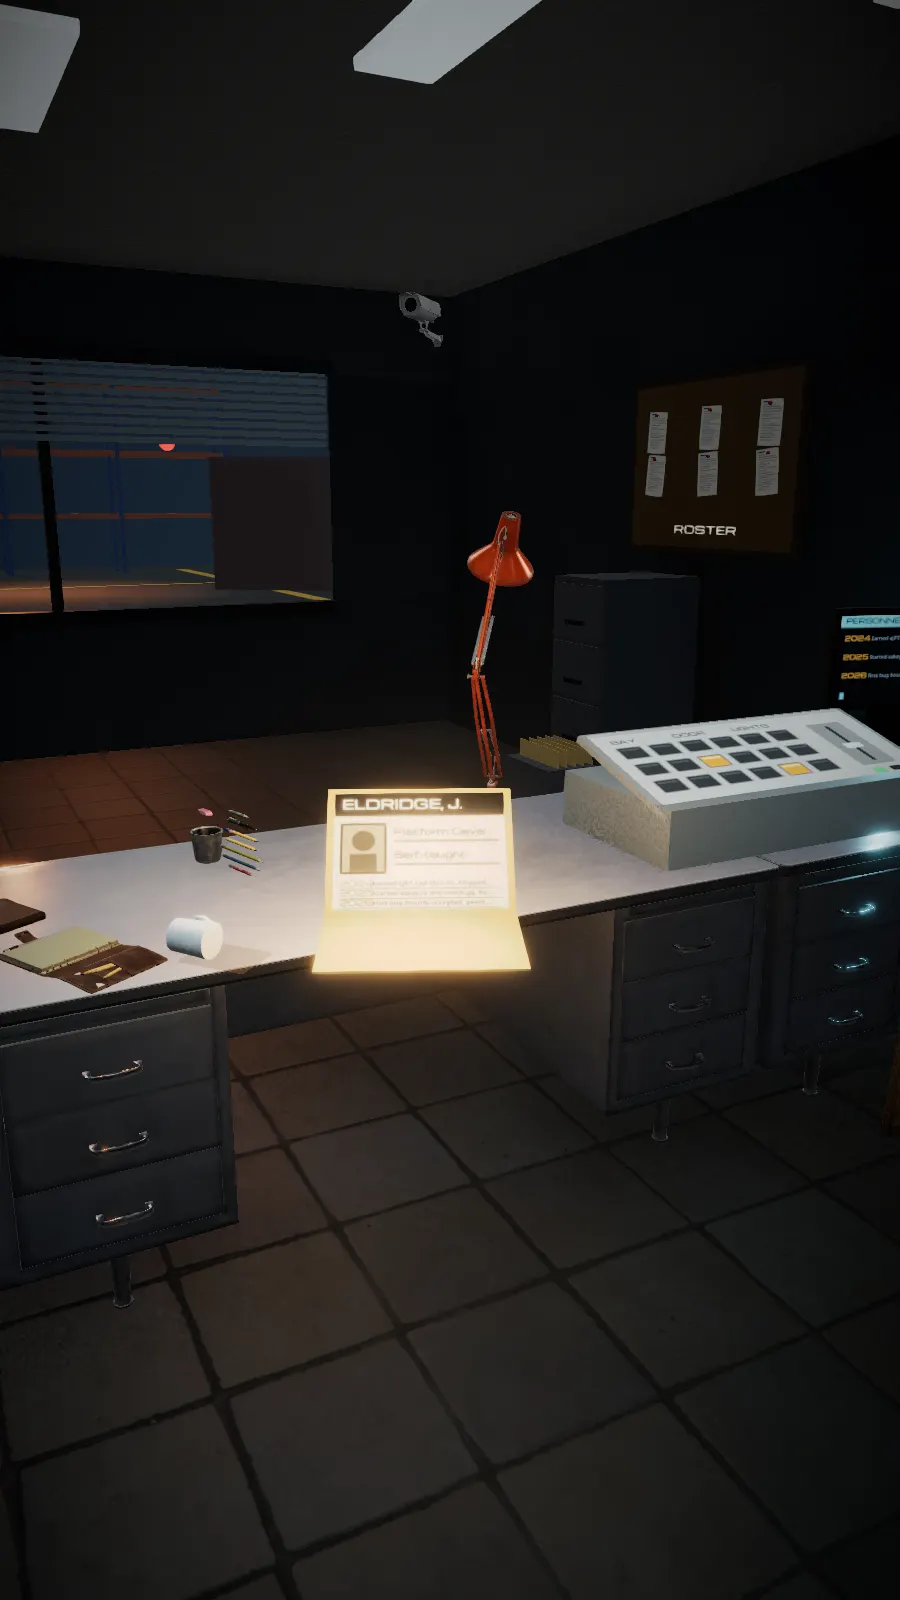
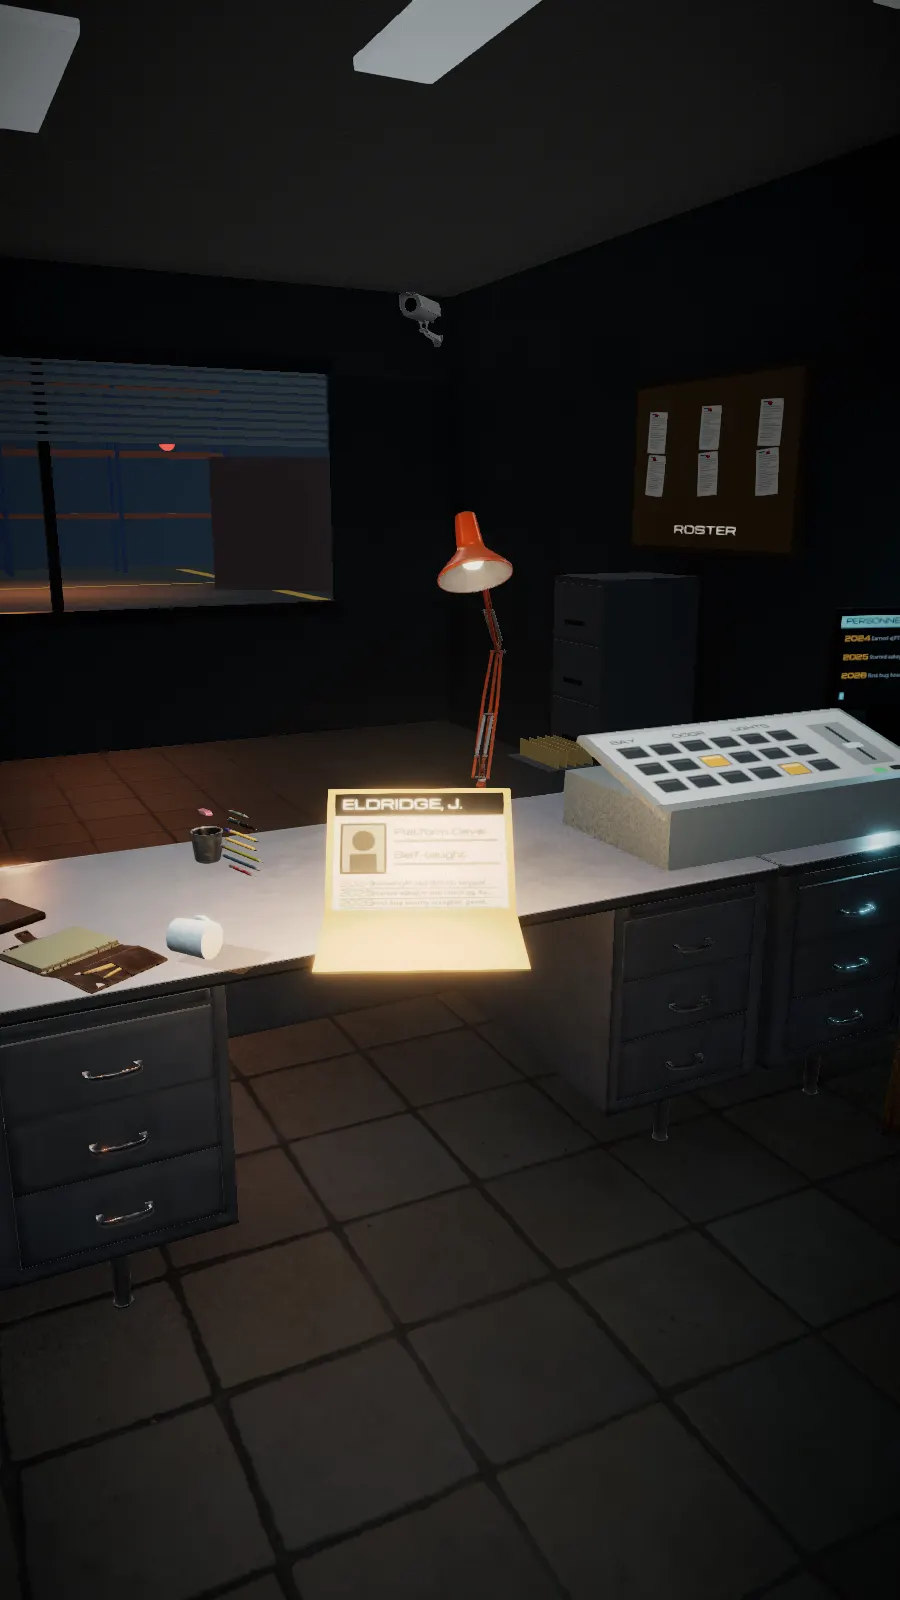
Switch room lighting at the doorway, and five small fixes from the walk
The light rig switched rooms on the nearest stop, halfway between holds, so a room's lights dropped
while the camera was still ten metres inside it. Each stop now carries the t at which the camera
crosses into its room, and the rig switches on that.

The arcade row stands 1.2 m clear of the drinks machines: butted together they read as one row of
six where four answered the pointer and two did not, and the lit header hid the last marquee. The
loose things in the server hall are where someone left them for a reason, the chair at the desk,
the boxes at the cage gate, the ladder at the panels. The file lamp looks over the folder instead
of at the window. The tape at the break room's two doors ties to stanchions rather than falling to
the floor.

Changed region(s): [[0.4667, 0.3125, 0.5911, 0.5]]

diff --git a/src/scenes/walk/path.ts b/src/scenes/walk/path.ts
@@ -2,7 +2,11 @@ import { CatmullRomCurve3, Matrix4, Quaternion, Vector3 } from 'three';
 import type { Wing } from '../../content/schema';
 
 export type StopId = 'booth' | 'fabrication' | 'recreation' | 'operations' | 'credentials' | 'containment' | 'file';
-export interface Stop { id: StopId; t: number; hold: [number, number]; lookAt: [number, number, number]; wing?: Wing; light: string }
+/** `enter` is the t at which the camera crosses into the stop's room (the doorway, or the hold's
+ *  start where the camera holds on the threshold looking in). The light rig switches rooms on it.
+ *  Switching on the nearest stop, halfway between holds, dropped a room's lights while the camera
+ *  was still ten metres inside it. */
+export interface Stop { id: StopId; t: number; enter: number; hold: [number, number]; lookAt: [number, number, number]; wing?: Wing; light: string }
 
 export const EYE = 1.7;
 
@@ -17,24 +21,24 @@ export const STOPS: Stop[] = [
   // The booth looks down the hall through the door it is about to walk through. Its target sits
   // well past the door on the same sightline, so the camera is never turning toward a point it is
   // standing on while it pulls away from the hold.
-  { id: 'booth', t: 0.0, hold: [0.0, 0.09], lookAt: [0, 3.2, 8], light: '#6EC1D6' },
+  { id: 'booth', t: 0.0, enter: 0.0, hold: [0.0, 0.09], lookAt: [0, 3.2, 8], light: '#6EC1D6' },
   // The fabrication hold is inside the dispatch office. The camera turns west to the three exhibits
   // along its glass.
-  { id: 'fabrication', t: 0.2, hold: [0.17, 0.25], lookAt: [-7, 1.5, -11], wing: 'fabrication', light: '#E0813A' },
-  { id: 'recreation', t: 0.4, hold: [0.37, 0.44], lookAt: [-33.7, 1.5, -35], wing: 'recreation', light: '#3D7BE0' },
-  { id: 'operations', t: 0.56, hold: [0.53, 0.6], lookAt: [-72, 1.6, -33], wing: 'operations', light: '#CFE6EE' },
+  { id: 'fabrication', t: 0.2, enter: 0.105, hold: [0.17, 0.25], lookAt: [-7, 1.5, -11], wing: 'fabrication', light: '#E0813A' },
+  { id: 'recreation', t: 0.4, enter: 0.332, hold: [0.37, 0.44], lookAt: [-33.7, 1.5, -35], wing: 'recreation', light: '#3D7BE0' },
+  { id: 'operations', t: 0.56, enter: 0.52, hold: [0.53, 0.6], lookAt: [-72, 1.6, -33], wing: 'operations', light: '#CFE6EE' },
   // The credentials hold stands inside the glass lab and looks north up it, so the three plates on
   // each side of the aisle are both in frame. Looking west put one wall in shot and the other three
   // plates behind the camera, which is what Jordan saw. The aim sits a little east of the hold's
   // own x: the spline parks at -79.83 and the lab runs on -79, so a straight north aim leans the
   // frame toward the west row and crowds the east one against the edge.
-  { id: 'credentials', t: 0.7, hold: [0.67, 0.74], lookAt: [-79.2, 1.75, -12], light: '#D9E8EE' },
+  { id: 'credentials', t: 0.7, enter: 0.643, hold: [0.67, 0.74], lookAt: [-79.2, 1.75, -12], light: '#D9E8EE' },
   // The containment hold stands short of the room, in the credentials hall, and looks north
   // through the CONTAINMENT doorway. The aim is the table halfway up the aisle rather than the
   // far wall: the lamp over the redacted page is what the room is about, and aiming past it put
   // the one warm thing in a cold room down at the bottom edge of the frame.
-  { id: 'containment', t: 0.84, hold: [0.81, 0.88], lookAt: [-80.6, 1.3, 12], wing: 'containment', light: '#D7383A' },
-  { id: 'file', t: 1.0, hold: [0.96, 1.0], lookAt: [-68, 1.1, 31], light: '#D9E8EE' },
+  { id: 'containment', t: 0.84, enter: 0.81, hold: [0.81, 0.88], lookAt: [-80.6, 1.3, 12], wing: 'containment', light: '#D7383A' },
+  { id: 'file', t: 1.0, enter: 0.936, hold: [0.96, 1.0], lookAt: [-68, 1.1, 31], light: '#D9E8EE' },
 ];
 
 // The shutter starts rolling on the first pixel of scroll and finishes at 0.075, while the camera
@@ -169,4 +173,11 @@ export function cameraAt(t: number, out = { position: new Vector3(), target: new
   _qAhead.slerp(lookQuat(stop), weight);
   out.target.copy(FORWARD).applyQuaternion(_qAhead).add(out.position);
   return out;
+}
+
+/** The room the camera is physically in: the last stop whose `enter` it has passed. */
+export function roomAt(t: number): Stop {
+  let room = STOPS[0];
+  for (const s of STOPS) if (t >= s.enter) room = s;
+  return room;
 }

diff --git a/src/scenes/walk/stages/recreation/shell.ts b/src/scenes/walk/stages/recreation/shell.ts
@@ -3,7 +3,7 @@ import type { StageContext } from '../types';
 import { prepareAO } from '../../materials';
 import { merged } from '../../merge';
 import { labFloor, labWall, dadoBands, dadoMaterial, dadoLineMaterial, ceilingGrid, nearestLitPanel } from '../../labs/materials';
-import { doorway, tapeStrip } from '../../labs/signage';
+import { doorway, tapeStrip, stanchion } from '../../labs/signage';
 import { X1, Z0, Z1, H, W, D, XC, ZC, ROOM, ROOM_W, ROOM_XC, TILE, LIT, PANEL, LANDING, BAY_DOOR, HALL_DOOR, HALL_FACE, HALL_HEAD } from './layout';
 
 export interface Shell { planes: Set<THREE.Object3D>; flicker: THREE.InstancedMesh[] }
@@ -70,7 +70,11 @@ export function buildShell({ store }: StageContext, root: THREE.Group): Shell {
   wall(Z1 - LANDING.z1, H, X1, H / 2, (LANDING.z1 + Z1) / 2, -Math.PI / 2);
   // One tape, hanging off the doorway's south post and trailing to the floor: somebody ducked under
   // it. It stops well short of the walked line, so it never runs through the camera or a wall.
-  root.add(tapeStrip([BAY_DOOR.x, 1.25, BAY_DOOR.z - BAY_DOOR.w / 2 + 0.05], [BAY_DOOR.x + 2.0, 0.06, BAY_DOOR.z - BAY_DOOR.w / 2 + 0.8], 0.06));
+  // Tied from the jamb to a stanchion two metres along. It used to run from the jamb to the floor
+  // with nothing at the floor end, a tape that had fallen and been left, and Jordan's note on the
+  // entry was that it felt weird.
+  const postA = stanchion(); postA.position.set(BAY_DOOR.x + 2.0, 0, BAY_DOOR.z - BAY_DOOR.w / 2 + 0.8); root.add(postA);
+  root.add(tapeStrip([BAY_DOOR.x, 1.05, BAY_DOOR.z - BAY_DOOR.w / 2 + 0.05], [BAY_DOOR.x + 2.0, 0.95, BAY_DOOR.z - BAY_DOOR.w / 2 + 0.8], 0.06));
 
   // ---- The west end: the doorway into the server hall -------------------------------------------
   // Its far mouth is the hall's own east wall plane (X0), which the hall closes around, and its near
@@ -96,7 +100,8 @@ export function buildShell({ store }: StageContext, root: THREE.Group): Shell {
   if (sign) sign.position.y = HALL_HEAD + 0.35;
   // The tape that used to hang across this end ran down the walked line and the camera drove through
   // its lettering. This one hangs off the south flank beside the doorway, clear of the line.
-  root.add(tapeStrip([hallFace, 1.3, flankZ0 - 0.1], [hallFace + 1.9, 0.06, flankZ0 - 1.1], 0.06));
+  const postB = stanchion(); postB.position.set(hallFace + 1.9, 0, flankZ0 - 1.1); root.add(postB);
+  root.add(tapeStrip([hallFace, 1.1, flankZ0 - 0.1], [hallFace + 1.9, 0.95, flankZ0 - 1.1], 0.06));
 
   root.add(merged(dado, dadoMaterial()), merged(lines, dadoLineMaterial()));
   return { planes, flicker: room.flicker };

diff --git a/tests/unit/path.test.ts b/tests/unit/path.test.ts
@@ -1,6 +1,6 @@
 import { describe, it, expect } from 'vitest';
 import { Vector3 } from 'three';
-import { STOPS, cameraAt, stopAt, tForStop, doorOpenAmount, DOOR_RANGE, holdWeight, localProgress, lookWeight, travelParam, EYE, TURN_LEAD } from '../../src/scenes/walk/path';
+import { STOPS, cameraAt, stopAt, roomAt, tForStop, doorOpenAmount, DOOR_RANGE, holdWeight, localProgress, lookWeight, travelParam, EYE, TURN_LEAD } from '../../src/scenes/walk/path';
 
 describe('stops', () => {
   it('are seven, in increasing t, from 0 to 1', () => {
@@ -66,6 +66,25 @@ describe('camera', () => {
       const target1 = cameraAt(t1).target;
       expect(target0.distanceTo(target1)).toBeLessThan(1.5);
     }
+  });
+});
+
+describe('rooms', () => {
+  it('enters each room after the previous hold and before its own, in order', () => {
+    for (let i = 1; i < STOPS.length; i++) {
+      expect(STOPS[i].enter).toBeGreaterThan(STOPS[i - 1].hold[1]);
+      expect(STOPS[i].enter).toBeLessThanOrEqual(STOPS[i].hold[0]);
+    }
+  });
+  it('crosses into operations at its doorway, not halfway down the break room', () => {
+    // The break room runs from x -20 to the hall door at x -57.2. The nearest-stop rule flipped at
+    // about x -45.
+    const at = cameraAt(STOPS.find((s) => s.id === 'operations')!.enter).position;
+    expect(at.x).toBeLessThan(-56); expect(at.x).toBeGreaterThan(-59);
+    expect(roomAt(0.48).id).toBe('recreation');
+    expect(roomAt(0.53).id).toBe('operations');
+    expect(roomAt(0.63).id).toBe('operations');
+    expect(roomAt(0.65).id).toBe('credentials');
   });
 });
 

diff --git a/src/scenes/walk/stages/operations/dressing.ts b/src/scenes/walk/stages/operations/dressing.ts
@@ -107,9 +107,12 @@ export async function buildDressing(ctx: StageContext, root: THREE.Group): Promi
   await add(place(wallScreen(1.6, 0.9, ['RACK STATUS', 'row A  ok', 'row B  degraded'], '#CFE6EE'), X0 + 0.1, 2.4, -33.5, Math.PI / 2));
 
   // ---- The aisle ------------------------------------------------------------------------------
-  await add(once(prop('office_chair'), -66, 0, -32.5, 1.1));
-  await add(boxes([[-69, 0.2, -33.6, 0.3], [-68.62, 0.6, -33.74, -0.45]]));
-  await add(place(stepladder(), -73.5, 0, -34.6, 0.5));
+  // Each loose thing is somewhere a person left it for a reason: the chair pushed back from the
+  // desk, the boxes dropped at the cage gate waiting to go in, the ladder up at the wall panels.
+  // Spread down the aisle they read as scatter, and Jordan's note was "model position feels random".
+  await add(once(prop('office_chair'), X0 + 2.2, 0, -31.7, -Math.PI / 2 + 0.3));
+  await add(boxes([[GATE_X + 0.9, 0.2, -33.5, 0.3], [GATE_X + 1.28, 0.6, -33.64, -0.45]]));
+  await add(place(stepladder(), -64.6, 0, Z1 - 0.75, 0.15));
   await add(papers([
     [X0 + 3, 0, -30.4, 0.2], [X0 + 3.8, 0, -31.6, 1.1], [-66, 0, -30.2, 2.4], [-61, 0, -31.8, 0.7],
     [-64.2, 0, -33.1, 1.5], [-67.4, 0, -34.2, 0.3], [-70.6, 0, -28.3, 2.1], [-72.8, 0, -32.9, 0.9],

diff --git a/src/scenes/walk/stages/recreation/layout.ts b/src/scenes/walk/stages/recreation/layout.ts
@@ -47,13 +47,15 @@ export const PANEL: [number, number] = [1.2, 0.28];
 
 /** The row: four cabinets, each turned a little out of the wall so the hold sees its marquee and its
  *  screen rather than four dark flanks. `ry` and the offset off the wall are the same for all four,
- *  which puts every back corner on the wall plane. */
+ *  which puts every back corner on the wall plane. The row stands 1.2 m clear of the drinks
+ *  machines: butted up to them it read as one row of six where four answered the pointer and two
+ *  did not, and the lit machine's header hid the last marquee from the hold. */
 export const CABINET_RY = 0.2, CABINET_Z = Z0 + 0.4675;
 export const CABINETS: [string, string, number, string][] = [
-  ['torn-bet', 'torn.bet', -32.40, '#3D7BE0'],
-  ['faction-tools', 'faction.tools', -33.33, '#E8B923'],
-  ['kayou-bot', 'Kayou', -34.26, '#D7383A'],
-  ['character-bot', 'character bot', -35.19, '#3FD47A'],
+  ['torn-bet', 'torn.bet', -33.60, '#3D7BE0'],
+  ['faction-tools', 'faction.tools', -34.53, '#E8B923'],
+  ['kayou-bot', 'Kayou', -35.46, '#D7383A'],
+  ['character-bot', 'character bot', -36.39, '#3FD47A'],
 ];
 export const ACCENT = '#3D7BE0';
 

diff --git a/src/scenes/walk/labs/signage.ts b/src/scenes/walk/labs/signage.ts
@@ -244,3 +244,20 @@ export function doorway(spec: DoorwaySpec): THREE.Group {
   if (spec.axis === 'x') g.rotation.y = Math.PI / 2;
   return g;
 }
+
+/**
+ * A tape stanchion: a steel post on a weighted base with a yellow cap, the thing a run of tape is
+ * actually tied to when there is no furniture at that end. Origin at the floor under the post. Tie
+ * tape at y 0.95. Two draw calls.
+ */
+export function stanchion(): THREE.Group {
+  const g = new THREE.Group();
+  const steel = labSteel(0x2b3740);
+  g.add(merged([
+    new THREE.CylinderGeometry(0.17, 0.19, 0.03, 20).translate(0, 0.015, 0),
+    new THREE.CylinderGeometry(0.018, 0.018, 0.94, 10).translate(0, 0.5, 0),
+  ], steel));
+  const cap = new THREE.Mesh(new THREE.CylinderGeometry(0.03, 0.03, 0.06, 12), new THREE.MeshStandardMaterial({ color: LABS.hazard, roughness: 0.5 }));
+  cap.position.y = 0.97; g.add(cap);
+  return g;
+}

diff --git a/src/scenes/walk/rig.ts b/src/scenes/walk/rig.ts
@@ -1,5 +1,5 @@
 import * as THREE from 'three';
-import { STOPS, stopAt, type StopId } from './path';
+import { STOPS, roomAt, type StopId } from './path';
 import type { Tier } from './quality';
 
 export interface SpotPlacement { kind: 'spot'; position: [number, number, number]; target: [number, number, number]; color: number; intensity: number; distance: number; angle: number; penumbra: number; decay?: number; shadow?: boolean }
@@ -118,7 +118,7 @@ export class LightRig {
   unregister(stop: StopId): void { this.rooms.delete(stop); this.stop = null; }
 
   update(t: number, dt: number): void {
-    const stop = stopAt(t).id;
+    const stop = roomAt(t).id;
     if (stop !== this.stop) {
       this.stop = stop;
       const assigned = assignSlots(this.slots.map((s) => s.target), composeSet(this.rooms, stop), this.size, this.shadows);

diff --git a/src/scenes/walk/stages/file/dressing.ts b/src/scenes/walk/stages/file/dressing.ts
@@ -104,7 +104,8 @@ export async function buildDressing(ctx: StageContext, root: THREE.Group): Promi
   // The lamp, at the back of the desk with its head over the folder. Its bulb is the room's one
   // warm light, declared in lighting.ts at the head's own height.
   const lamp = grounded(store.model('desk_lamp'));
-  place(lamp, DESK.x + 0.35, TOP, FILE.z + 0.55, -2.24);
+  // Turned so the head looks back over the folder toward the lens. At -2.24 it faced the window.
+  place(lamp, DESK.x + 0.35, TOP, FILE.z + 0.55, 0.9);
   await add(lamp);
 
   // The anchor a pinned panel would hang off, half a metre in front of the folder. Nothing in the
